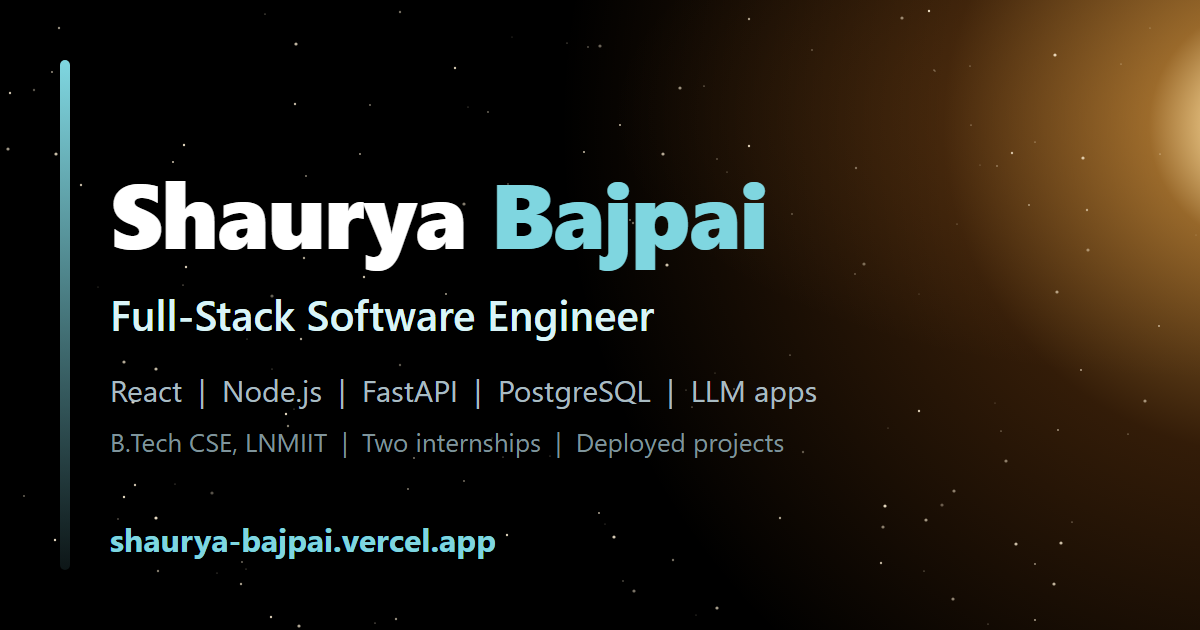
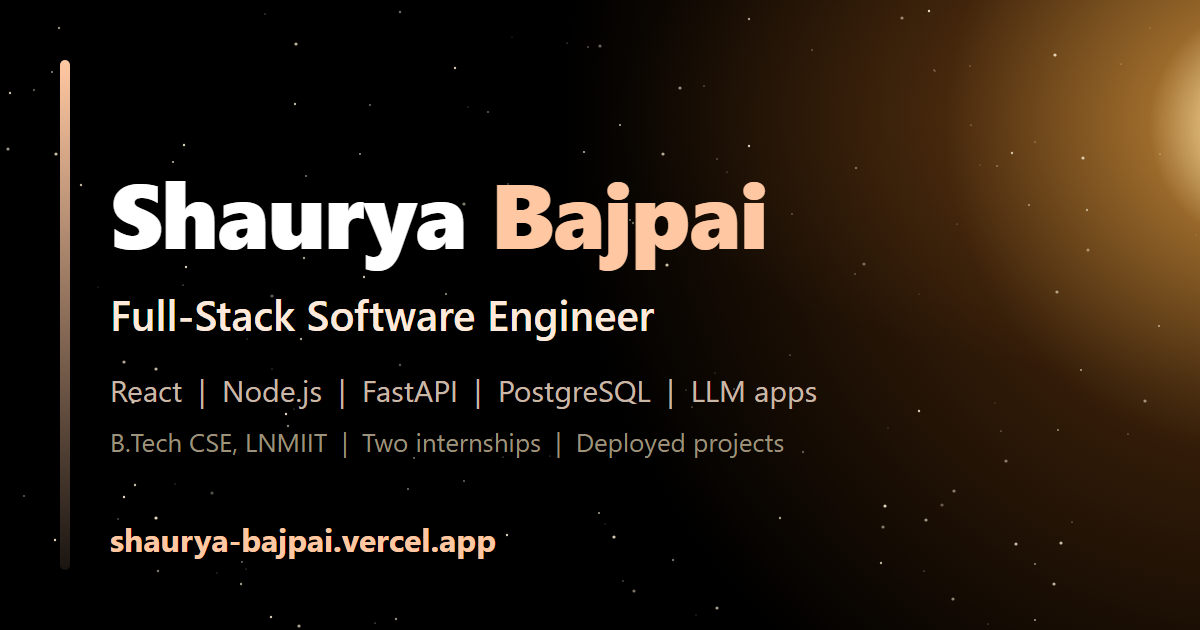
Switch highlight color to soft peach

diff --git a/app/globals.css b/app/globals.css
@@ -2,17 +2,17 @@
 
 @theme {
   --color-primary: #000000;
-  --color-secondary: #a9bcc2;
-  --color-tertiary: #0d1316;
-  --color-black-100: #080c0e;
-  --color-black-200: #040708;
+  --color-secondary: #c9b8a8;
+  --color-tertiary: #15110b;
+  --color-black-100: #0c0a07;
+  --color-black-200: #060504;
   --color-white-100: #f3efe6;
-  --color-accent: #7fd6e0;
-  --color-accent-soft: #d9f4f7;
+  --color-accent: #ffc8a2;
+  --color-accent-soft: #ffe9db;
 
   --breakpoint-xs: 30rem;
 
-  --shadow-card: 0px 35px 120px -15px rgba(127, 214, 224, 0.12);
+  --shadow-card: 0px 35px 120px -15px rgba(255, 170, 70, 0.14);
 
   --font-sans: var(--font-poppins), ui-sans-serif, system-ui, sans-serif;
 }
@@ -30,7 +30,7 @@ html {
     /* the sun: bright core, soft corona, long warm falloff */
     radial-gradient(circle at 106% 16%, #fff6df 0, #ffe0a0 2.5%, rgba(255, 176, 72, 0.55) 9%, rgba(255, 140, 40, 0.2) 24%, transparent 52%),
     radial-gradient(70% 60% at 100% 14%, rgba(255, 160, 60, 0.16), transparent 70%),
-    radial-gradient(60% 45% at 0% 100%, rgba(127, 214, 224, 0.06), transparent 65%);
+    radial-gradient(60% 45% at 0% 100%, rgba(255, 200, 162, 0.06), transparent 65%);
   background-attachment: fixed;
 }
 
@@ -49,7 +49,7 @@ body {
 }
 
 ::selection {
-  background: #7fd6e0;
+  background: #ffc8a2;
   color: #000;
 }
 
@@ -60,7 +60,7 @@ body {
   background: #000000;
 }
 ::-webkit-scrollbar-thumb {
-  background: #20343a;
+  background: #3a3122;
   border-radius: 6px;
 }
 
@@ -76,12 +76,12 @@ body {
 }
 
 .violet-gradient {
-  background: #7fd6e0;
-  background: linear-gradient(-90deg, #7fd6e0 0%, rgba(127, 214, 224, 0) 100%);
+  background: #ffc8a2;
+  background: linear-gradient(-90deg, #ffc8a2 0%, rgba(255, 200, 162, 0) 100%);
 }
 
 .green-pink-gradient {
-  background: linear-gradient(90.13deg, #2a7f89 1.9%, #7fd6e0 97.5%);
+  background: linear-gradient(90.13deg, #a8643a 1.9%, #ffc8a2 97.5%);
 }
 
 .orange-text-gradient {
@@ -99,7 +99,7 @@ body {
 }
 
 .blue-text-gradient {
-  background: linear-gradient(to top, #d9b877, #d9f4f7);
+  background: linear-gradient(to top, #d9b877, #ffe9db);
   -webkit-background-clip: text;
   background-clip: text;
   -webkit-text-fill-color: transparent;
@@ -183,15 +183,15 @@ body {
 
 /* vertical timeline theme overrides */
 .vertical-timeline::before {
-  background: #1d2f34 !important;
+  background: #2a2418 !important;
 }
 @media only screen and (min-width: 1170px) {
   .vertical-timeline-element-date {
-    color: #a9bcc2;
+    color: #c9b8a8;
   }
 }
 .vertical-timeline-element-date {
-  color: #a9bcc2 !important;
+  color: #c9b8a8 !important;
 }
 
 @media (prefers-reduced-motion: reduce) {

diff --git a/components/Experience.tsx b/components/Experience.tsx
@@ -45,7 +45,7 @@ function ExperienceItem({ experience }: { experience: Exp }) {
             {experience.date}
           </span>
         </div>
-        <p className="mt-1 text-[15px] font-semibold text-[#d9f4f7]">
+        <p className="mt-1 text-[15px] font-semibold text-[#ffe9db]">
           {experience.companyName}
         </p>
 
@@ -59,7 +59,7 @@ function ExperienceItem({ experience }: { experience: Exp }) {
               transition={{ duration: 0.35, delay: 0.05 * i }}
               className="flex gap-2.5 text-[14px] leading-relaxed text-white-100"
             >
-              <span className="mt-[7px] h-1.5 w-1.5 flex-shrink-0 rounded-full bg-[#7fd6e0]" />
+              <span className="mt-[7px] h-1.5 w-1.5 flex-shrink-0 rounded-full bg-[#ffc8a2]" />
               <span>{point}</span>
             </motion.li>
           ))}
@@ -89,7 +89,7 @@ function Experience() {
         {/* fill that grows with scroll position */}
         <motion.div
           style={{ scaleY: scrollYProgress }}
-          className="absolute left-[19px] top-2 bottom-2 w-[3px] origin-top rounded-full bg-gradient-to-b from-[#7fd6e0] to-[#d9f4f7] sm:left-[23px]"
+          className="absolute left-[19px] top-2 bottom-2 w-[3px] origin-top rounded-full bg-gradient-to-b from-[#ffc8a2] to-[#ffe9db] sm:left-[23px]"
         />
 
         <div className="flex flex-col gap-12">

diff --git a/components/Hero.tsx b/components/Hero.tsx
@@ -8,17 +8,17 @@ export default function Hero() {
     <section className="relative mx-auto h-screen w-full">
       <div className="absolute inset-0 top-[120px] mx-auto flex max-w-7xl flex-row items-start gap-5 px-6 sm:px-16">
         <div className="mt-5 flex flex-col items-center justify-center">
-          <div className="h-5 w-5 rounded-full bg-[#7fd6e0]" />
+          <div className="h-5 w-5 rounded-full bg-[#ffc8a2]" />
           <div className="violet-gradient h-40 w-1 sm:h-80" />
         </div>
 
         <div>
           <h1 className="mt-2 text-[40px] font-black text-white xs:text-[50px] sm:text-[60px] sm:leading-[80px] lg:text-[80px] lg:leading-[98px]">
-            Hi, I&apos;m <span className="text-[#7fd6e0]">{person.firstName}</span>
+            Hi, I&apos;m <span className="text-[#ffc8a2]">{person.firstName}</span>
           </h1>
           <p className="mt-2 max-w-2xl text-[16px] font-medium text-white-100 xs:text-[20px] sm:text-[26px] sm:leading-[38px] lg:text-[30px] lg:leading-[40px]">
             {heroCopy.lead}{" "}
-            <span className="text-[#d9f4f7]">{heroCopy.lead2}</span>
+            <span className="text-[#ffe9db]">{heroCopy.lead2}</span>
           </p>
           <p className="mt-4 max-w-xl text-[14px] leading-[24px] text-secondary sm:text-[16px]">
             {heroCopy.sub}

diff --git a/components/AstronautCanvas.tsx b/components/AstronautCanvas.tsx
@@ -147,13 +147,13 @@ export default function AstronautCanvas({ className = "" }: { className?: string
         <ambientLight intensity={0.7} />
         <hemisphereLight args={["#fff3dc", "#0a0805", 0.5]} />
         <directionalLight position={[4, 6, 5]} intensity={2.2} />
-        <directionalLight position={[-5, 2, 3]} intensity={0.9} color="#e6fbff" />
+        <directionalLight position={[-5, 2, 3]} intensity={0.9} color="#fff1e6" />
         <directionalLight position={[0, 2, -6]} intensity={1.1} color="#ffb454" />
 
         <Suspense fallback={null}>
           <Environment resolution={256}>
             <Lightformer intensity={2} position={[0, 3, 2]} scale={[6, 3, 1]} color="#ffffff" />
-            <Lightformer intensity={1.1} position={[-4, 1, 2]} scale={[3, 4, 1]} color="#e6fbff" />
+            <Lightformer intensity={1.1} position={[-4, 1, 2]} scale={[3, 4, 1]} color="#fff1e6" />
             <Lightformer intensity={1} position={[4, 0, 3]} scale={[3, 4, 1]} color="#ffb454" />
           </Environment>
 

diff --git a/components/Navbar.tsx b/components/Navbar.tsx
@@ -48,7 +48,7 @@ export default function Navbar() {
             window.scrollTo(0, 0);
           }}
         >
-          <p className="cursor-pointer text-[18px] font-bold text-white transition-colors hover:text-[#d9f4f7]">
+          <p className="cursor-pointer text-[18px] font-bold text-white transition-colors hover:text-[#ffe9db]">
             {person.name}
           </p>
         </a>
@@ -64,7 +64,7 @@ export default function Navbar() {
             >
               <a href={`#${nav.id}`}>{nav.title}</a>
               <span
-                className={`absolute -bottom-0.5 left-0 h-[2px] rounded-full bg-[#7fd6e0] transition-all duration-300 ${
+                className={`absolute -bottom-0.5 left-0 h-[2px] rounded-full bg-[#ffc8a2] transition-all duration-300 ${
                   active === nav.id ? "w-full" : "w-0"
                 }`}
               />

diff --git a/components/Footer.tsx b/components/Footer.tsx
@@ -24,7 +24,7 @@ export default function Footer() {
             rel="noopener noreferrer"
             aria-label={label}
             title={label}
-            className={`flex items-center justify-center rounded-full border border-white/10 bg-tertiary text-secondary transition-all duration-200 hover:-translate-y-1 hover:border-[#7fd6e0]/60 hover:text-[#d9f4f7] hover:shadow-[0_0_18px_rgba(127,214,224,0.45)] ${
+            className={`flex items-center justify-center rounded-full border border-white/10 bg-tertiary text-secondary transition-all duration-200 hover:-translate-y-1 hover:border-[#ffc8a2]/60 hover:text-[#ffe9db] hover:shadow-[0_0_18px_rgba(255, 200, 162,0.45)] ${
               big ? "h-12 w-12 text-[24px]" : "h-10 w-10 text-[18px]"
             }`}
           >

diff --git a/components/ScrollProgress.tsx b/components/ScrollProgress.tsx
@@ -13,7 +13,7 @@ export default function ScrollProgress() {
   return (
     <motion.div
       style={{ scaleX }}
-      className="fixed left-0 top-0 z-30 h-[3px] w-full origin-left bg-gradient-to-r from-[#7fd6e0] to-[#d9f4f7]"
+      className="fixed left-0 top-0 z-30 h-[3px] w-full origin-left bg-gradient-to-r from-[#ffc8a2] to-[#ffe9db]"
     />
   );
 }

diff --git a/components/Works.tsx b/components/Works.tsx
@@ -22,7 +22,7 @@ function ProjectCard({ index, ...project }: { index: number } & Project) {
         glareEnable
         tiltMaxAngleX={20}
         tiltMaxAngleY={20}
-        glareColor="#a9bcc2"
+        glareColor="#c9b8a8"
         className="w-full sm:w-[340px]"
       >
         <div className="group/card w-full rounded-2xl bg-tertiary p-5">

diff --git a/components/canvas/Stars.tsx b/components/canvas/Stars.tsx
@@ -24,7 +24,7 @@ function Stars(props: Record<string, unknown>) {
       <Points ref={ref} positions={sphere} stride={3} frustumCulled {...props}>
         <PointMaterial
           transparent
-          color="#e6fbff"
+          color="#fff1e6"
           size={0.0026}
           sizeAttenuation
           depthWrite={false}

diff --git a/components/About.tsx b/components/About.tsx
@@ -22,7 +22,7 @@ function ServiceCard({
       glareEnable
       tiltMaxAngleX={30}
       tiltMaxAngleY={30}
-      glareColor="#a9bcc2"
+      glareColor="#c9b8a8"
       className="w-full xs:w-[250px]"
     >
       <motion.div
